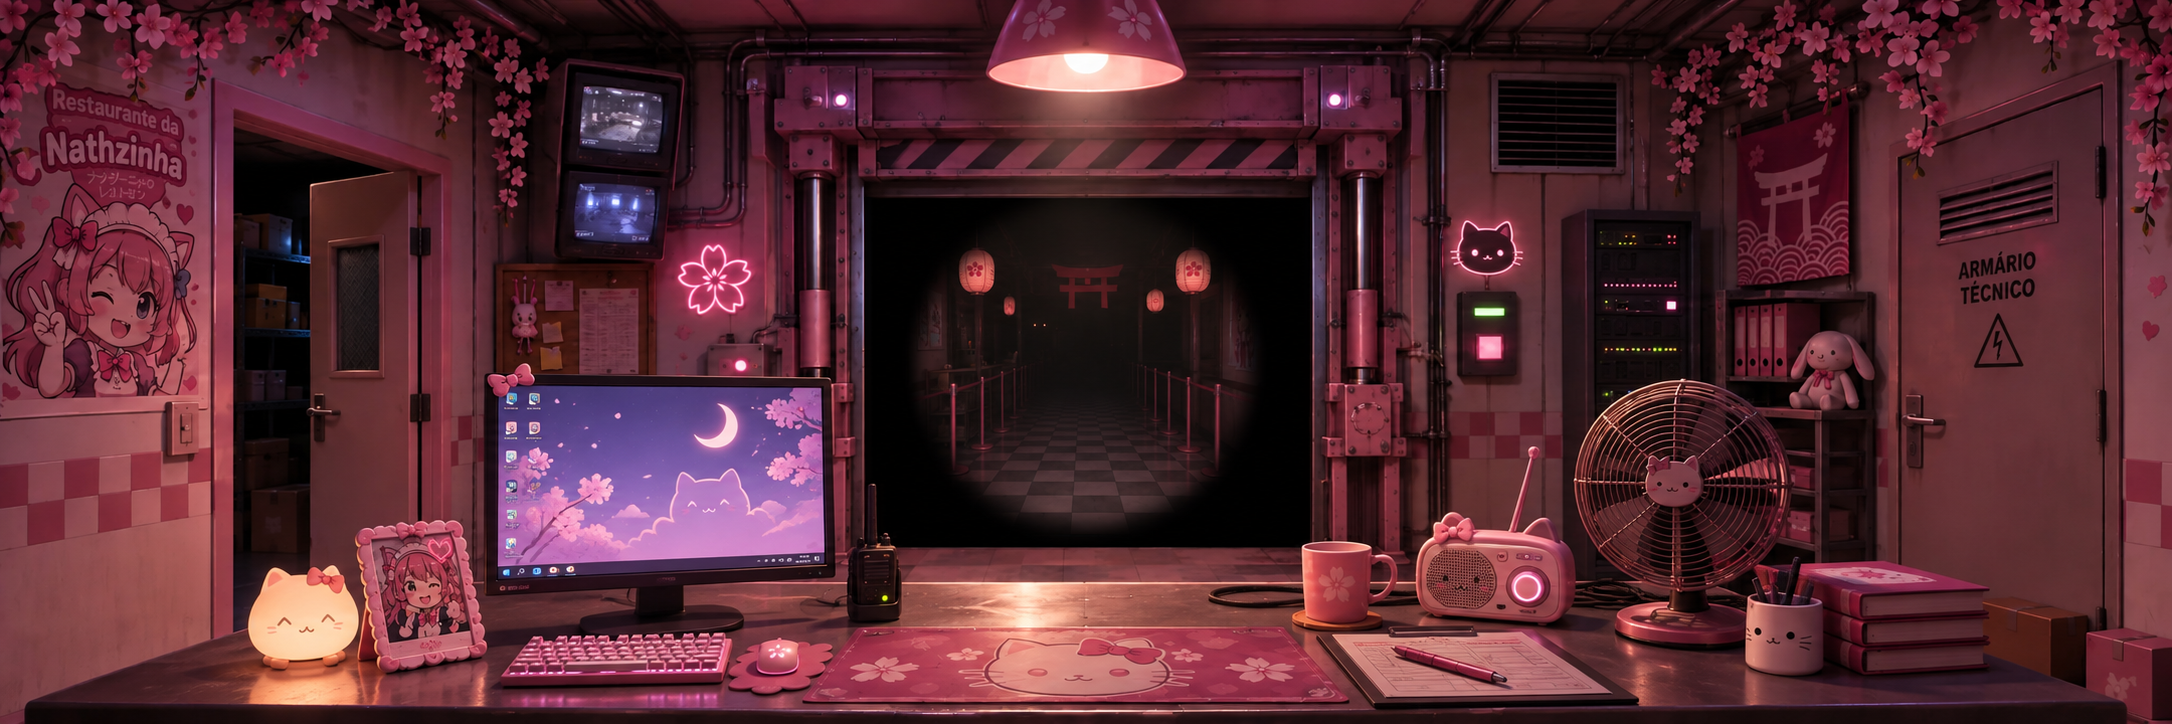
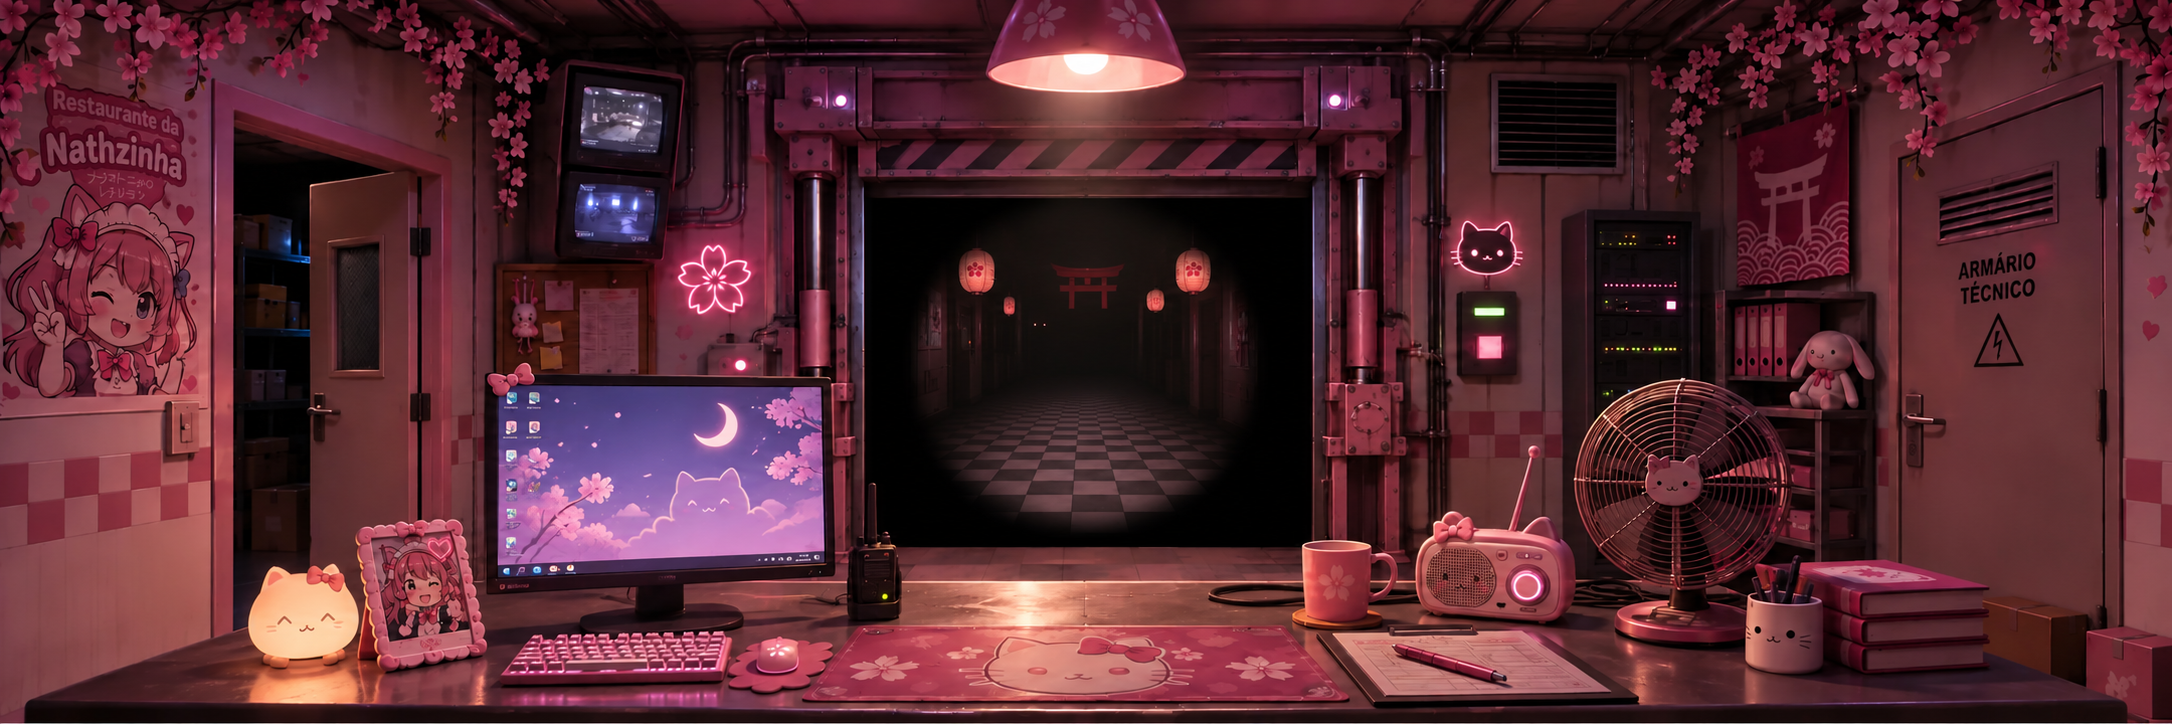
quase finalizado os estados

diff --git a/src/main.js b/src/main.js
@@ -43,7 +43,7 @@ function playSound(effect) {
 }
 const state = {
   mode: 'office', cameraIndex: 0, characterStates: new Map(), elapsed: 0,
-  officeRoom: new Set(), officeDoorway: null,
+  officeRoom: new Set(),
   complete: false, flashlight: false, pan: 0, targetPan: 0,
   dragging: false, pointerX: null, lastFrame: performance.now()
 };
@@ -101,7 +101,7 @@ const map = makeCameraMap({
 
 function updateOfficeView() {
   const closed = map.isGateClosed(OFFICE.gate);
-  if (closed || state.officeRoom.size || state.officeDoorway) state.flashlight = false;
+  if (closed || state.officeRoom.size) state.flashlight = false;
   const view = closed ? 'closed' : state.flashlight ? 'lit' : 'dark';
   dom.office.dataset.gate = closed ? 'closed' : 'open';
   dom.office.dataset.flashlight = String(state.flashlight);
@@ -124,7 +124,6 @@ function setOfficeCharacterState(room = [], doorway = null) {
     return false;
   }
   state.officeRoom = selected;
-  state.officeDoorway = doorway;
   for (const { location, character, image } of officeLayers) {
     const visible = location === 'room' ? selected.has(character) : doorway === character;
     if (visible && !image.getAttribute('src')) {
@@ -333,7 +332,7 @@ document.addEventListener('keydown', event => {
     if (!event.repeat) toggleMonitor();
   } else if (key === 'f' && state.mode === 'office') {
     event.preventDefault();
-    if (!event.repeat && !map.isGateClosed(OFFICE.gate)) {
+    if (!event.repeat && !state.officeRoom.size && !map.isGateClosed(OFFICE.gate)) {
       state.flashlight = !state.flashlight;
       updateOfficeView();
     }

diff --git a/tests/test_office_images.py b/tests/test_office_images.py
@@ -13,6 +13,8 @@ regions = [(0, 0, 2172, 197), (0, 547, 2172, 724),
            (0, 197, 864, 547), (1310, 197, 2172, 547)]
 for name, image in views.items():
     assert image.size == original.size, name
+for name in ['open-dark', 'closed']:
+    image = views[name]
     for region in regions:
         assert ImageChops.difference(original.crop(region), image.crop(region)).getbbox() is None, (name, region)
     # The left monitor, the radio antenna and right mug stay in the foreground.
@@ -20,6 +22,9 @@ for name, image in views.items():
         assert image.getpixel(point) == original.getpixel(point), (name, point)
 
 assert ImageChops.difference(views['open-dark'], original).getbbox() is None
+with Image.open(ROOT / 'outros/arte/office/open-lit.png') as lit_source:
+    assert lit_source.size == original.size
+    assert ImageChops.difference(views['open-lit'], lit_source.convert('RGB')).getbbox() is None
 assert not (OFFICE / 'office.webp').exists()
 corridor = (890, 210, 1280, 530)
 mean = lambda image, box: sum(ImageStat.Stat(image.crop(box)).mean) / 3
@@ -28,4 +33,4 @@ assert mean(views['open-lit'], (1030, 390, 1140, 460)) > 10 * mean(views['open-d
 # The flashlight reveals the center while leaving the outer recess dark.
 assert mean(views['open-lit'], (890, 210, 920, 250)) < 4
 assert mean(views['closed'], corridor) > 10 * mean(views['open-dark'], corridor)
-print('PASS: 3 office panoramas, lossless unchanged exterior/foreground, near-black corridor, round beam center and closed gate.')
+print('PASS: office backgrounds, preserved dark and closed foreground, and lossless new lit panorama.')

diff --git a/scripts/export_office_states.py b/scripts/export_office_states.py
@@ -17,7 +17,7 @@ def load(path):
         return image.convert("RGBA")
 
 
-def export(output):
+def export(output, lit_only=False):
     layers = {
         location: {
             character: load(OFFICE / "characters" / location / f"{character}.webp")
@@ -25,12 +25,16 @@ def export(output):
         }
         for location in ("room", "doorway")
     }
+    views = [("open-lit", "open-lit", 0)]
+    if not lit_only:
+        views.extend([("open", "open-dark", 3), ("closed", "closed", 3)])
+
     count = 0
-    for gate, source in (("open", "open-dark"), ("closed", "closed")):
+    for gate, source, max_room in views:
         base = load(OFFICE / "states" / f"{source}.webp")
         folder = output / gate
         folder.mkdir(parents=True, exist_ok=True)
-        for size in range(4):
+        for size in range(max_room + 1):
             for room in combinations(CHARACTERS, size):
                 room_key = "-".join(room) or "vazia"
                 for doorway in (None, *CHARACTERS):
@@ -50,5 +54,6 @@ def export(output):
 if __name__ == "__main__":
     parser = argparse.ArgumentParser(description=__doc__)
     parser.add_argument("output", type=Path, help="Pasta de destino das imagens")
+    parser.add_argument("--lit-only", action="store_true", help="Exporta apenas os seis estados iluminados")
     args = parser.parse_args()
-    print(f"{export(args.output)} imagens exportadas para {args.output}")
+    print(f"{export(args.output, args.lit_only)} imagens exportadas para {args.output}")

diff --git a/outros/prompts/ESCRITORIO_ESTADOS_PORTAO.md b/outros/prompts/ESCRITORIO_ESTADOS_PORTAO.md
@@ -3,12 +3,12 @@
 A arte fornecida em `NOVA.png` é o PNG mestre `public/images/office/master.png`, com os mesmos bytes e dimensões de 2172 × 724. Ela já traz o corredor escuro.
 
 - `public/images/office/states/open-dark.webp` mostra o portão aberto no breu e usa a arte mestre sem perdas.
-- `public/images/office/states/open-lit.webp` mostra o corredor no centro da luz circular.
+- `public/images/office/states/open-lit.webp` é a nova arte fornecida do corredor iluminado, exportada sem perdas de `outros/arte/office/open-lit.png`.
 - `public/images/office/states/closed.webp` mostra o portão cobrindo a passagem.
 
-Os dois estados editados foram criados com o ImageGen integrado. Na finalização, somente a passagem recebeu os recortes gerados; a moldura e os objetos em primeiro plano foram preservados na nova arte. A sala mantém o panorama 3:1.
+O fundo fechado foi criado com o ImageGen integrado e recortado para preservar a moldura e os objetos em primeiro plano. Os três fundos mantêm o panorama 3:1.
 
-**F** alterna a luz circular quando o portão está aberto e o escritório está vazio. **G01** no mapa controla o portão, inclusive em reaberturas automáticas. A área clicável fica sobre o monitor grande e acompanha o panorama.
+**F** alterna a luz circular quando o portão está aberto e a sala está vazia. Uma personagem na porta lateral permite usar a luz. **G01** no mapa controla o portão, inclusive em reaberturas automáticas. A área clicável fica sobre o monitor grande e acompanha o panorama.
 
 ## Enxame e porta lateral
 
@@ -16,7 +16,7 @@ As referências estão em `outros/arte/office/`. As cinco camadas da sala partem
 
 Os prompts do ImageGen integrado usaram o enxame como referência de pose e as artes individuais como referência de corpo e figurino. Para a Padrão, o recorte pedido completava os braços relaxados e as laterais da saia. Para a Gótica, completava o antebraço e o vestido atrás da Platinada e do ventilador. Para a Maid, completava o ombro e a lateral do tronco, preservando a inclinação e a mão no monitor. As imagens em `reconstructions/` forneceram pixels para essas áreas ocultas. Para a quinta pose na porta lateral, o prompt pedia a Maid no mesmo enquadramento, escala e sombra da pose da Gótica.
 
-Cada personagem pode estar em apenas um lugar. A sala aceita até três delas e a porta lateral aceita uma. Isso produz 101 arranjos para cada posição do G01. As dez camadas WebP são compartilhadas pelo jogo e pelo exportador `scripts/export_office_states.py`.
+Cada personagem pode estar em apenas um lugar. A sala aceita até três delas e a porta lateral aceita uma. São 101 arranjos com o portão aberto no escuro e 101 com ele fechado. Os seis estados iluminados usam apenas as camadas da porta lateral sobre o novo fundo. As dez camadas WebP são compartilhadas pelo jogo e pelo exportador `scripts/export_office_states.py`.
 
 ## Prompts do ImageGen
 
@@ -24,7 +24,7 @@ Cada personagem pode estar em apenas um lugar. A sala aceita até três delas e 
 
 Use case: precise-object-edit. Edit target: the attached NEW 2172×724 security control room panorama, with a large desktop computer monitor on the LEFT, pink radio and fan on the RIGHT, and a black central doorway. Change ONLY the black opening between the existing hydraulic pistons: close it with a heavy, horizontally ribbed dark plum steel rolling shutter, fitted below the existing hazard-striped header, down to the original threshold. Match the pink room's reflections, with a narrow yellow and black warning band on the shutter's lower edge. Preserve the new desktop monitor on the left, the walkie-talkie antenna in front of the door's left edge, mug at right, and all foreground objects. Every pixel outside the existing black opening must stay unchanged. Preserve the exact 3:1 panorama, original dimensions and crop. No changes to the side doors, framing, decor, light or furniture. No people, UI or added text. Output one full-frame scene.
 
-### Aberto com luz circular
+### Aberto com luz circular, versão anterior
 
 Use case: localized lighting edit. Image 1 is the sole EDIT TARGET: the NEW control room panorama, with a large computer on the left and fan and pink radio on the right. Image 2 is a visual reference ONLY for the corridor behind the central gate; never copy any foreground or office objects from image 2. In image 1 keep the central hydraulic gate open and the opening black except for one soft-edged circular flashlight beam in the middle, about two-thirds of the opening width. Within the beam reveal the same dim corridor from the reference, including the checkerboard floor, distant red torii motif and small hanging lanterns. Outside the beam keep the opening pitch black. Do not move or redraw anything in the new office: keep the monitor at left, mug at right, and walkie-talkie and antenna in the foreground intact. Only edit the black central opening. No new objects or people. Exact original camera pose and 2172×724 (3:1) framing. Return one full panorama without UI or text.
 

diff --git a/README.md b/README.md
@@ -63,7 +63,7 @@ A área do jogo tem largura máxima de 16:9, centralizada sobre fundo preto. Mon
 - **Clique no monitor da mesa**, clique na aba inferior ou pressione **Espaço/M**: abrir/fechar as câmeras.
 - **Na tela de câmeras:** clique em uma das 12 câmeras na planta ou use as setas **←/→**.
 - **Portões no mapa:** clique para alternar entre aberto (amarelo) e fechado (vermelho). Ao fechar um quarto portão, o último que havia sido fechado abre automaticamente. Os portões voltam a abrir ao reiniciar o turno.
-- **F no escritório:** alterna a luz circular no corredor. Ao abrir o monitor ou trocar de janela, a luz desliga. Com o G01 fechado, a luz não revela o corredor.
+- **F no escritório:** alterna a luz circular no corredor quando o G01 está aberto e a sala está vazia. Uma personagem na porta lateral permite usar a luz. Ao abrir o monitor ou trocar de janela, a luz desliga.
 - **G01 no mapa:** abre/fecha o portão principal do escritório. O estado acompanha também a reabertura automática pelo limite de três fechados.
 - **Esc:** abaixa o monitor.
 - O contador de horas vai de 12 AM a 6 AM; ao terminar, é possível reiniciar. Sem animatrônicos, dano, ataques ou mortes nesta versão.
@@ -111,7 +111,7 @@ O comando `node tests/camera-gates.cjs` testa a luz F, os estados do escritório
 
 Os três estados da nova sala de controle estão em `public/images/office/states/`. O PNG mestre é a arte nova, e a área clicável acompanha o monitor à esquerda da mesa. Prompts e composição: `outros/prompts/ESCRITORIO_ESTADOS_PORTAO.md`.
 
-O escritório aceita até três animatrônicas na sala e uma diferente na porta lateral. As camadas de `public/images/office/characters/` compõem 101 combinações com o portão principal aberto e 101 com ele fechado. Use `NathGame.setOfficeCharacterState(['original', 'platinada'], 'yandere')` para experimentar e chame a função sem argumentos para esvaziar a cena. A lanterna fica indisponível enquanto houver personagens selecionadas. Para exportar os 202 panoramas em WebP, rode `python scripts/export_office_states.py <pasta-de-destino>` com Pillow.
+O escritório aceita até três animatrônicas na sala e uma diferente na porta lateral. As camadas de `public/images/office/characters/` compõem 101 combinações com o portão principal aberto no escuro, 101 com ele fechado e seis com o corredor iluminado e a sala vazia. Use `NathGame.setOfficeCharacterState([], 'yandere')` e pressione **F** para ver a Yandere na porta lateral com o corredor iluminado. Chame a função sem argumentos para esvaziar a cena. Para exportar os 208 panoramas em WebP, rode `python scripts/export_office_states.py <pasta-de-destino>` com Pillow. Acrescente `--lit-only` para exportar apenas os seis iluminados.
 
 O mapa da interface usa os **polígonos das salas, aberturas, posições e azimutes das 12 câmeras** em `src/data/game-data.js`. Na parede norte do salão, o G06 ocupa o trecho da antiga passagem azul P17, atrás do palco. As plantas técnicas V8 registram o layout original.
 
